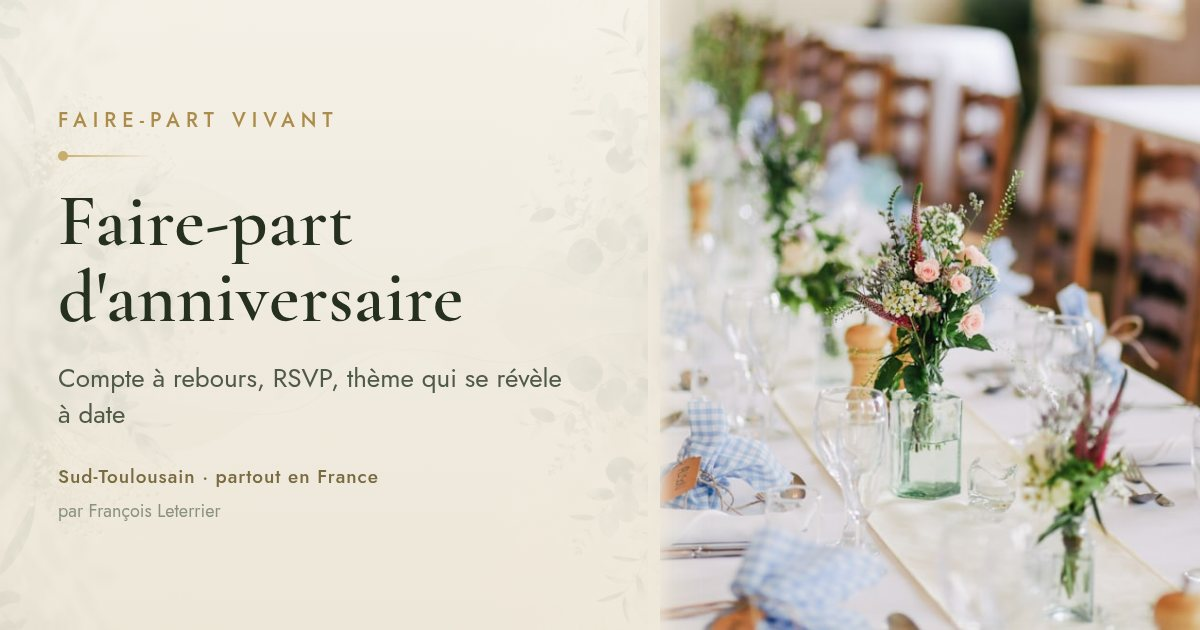
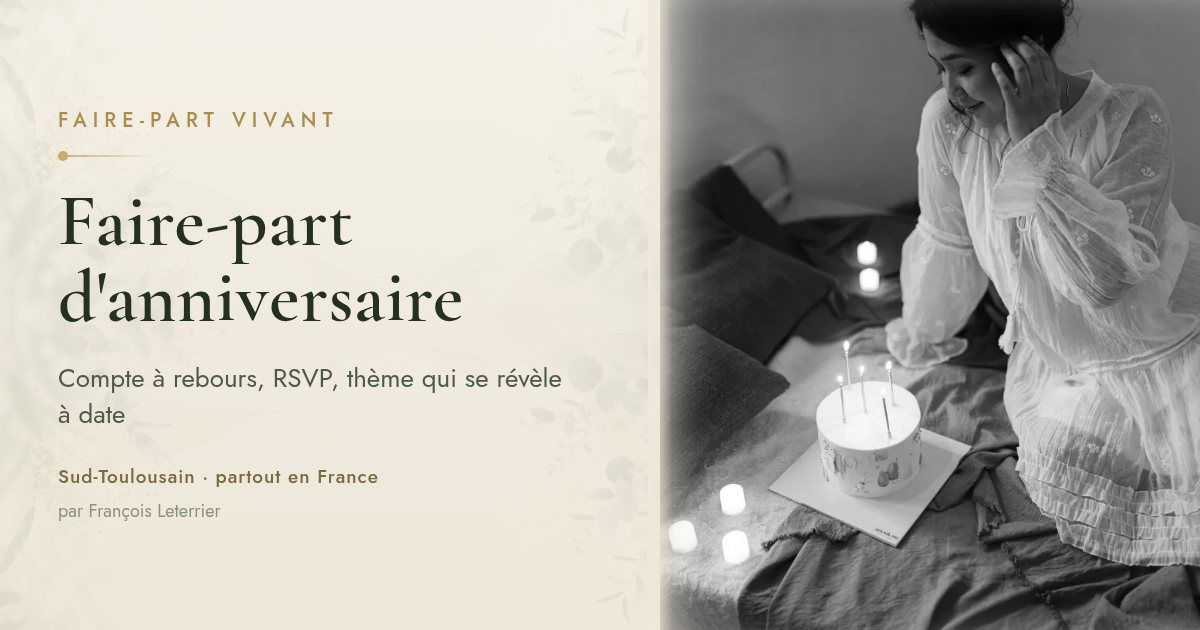
Événements : photos thématiques + un template distinct par occasion (#28)
Répond à deux demandes : chaque type d'événement a désormais sa vraie
photo et sa propre présentation (les pages ne se ressemblent plus, y
compris sur mobile).

Photos (aperçu téléphone + carte OG) :
- Anniversaire : gâteau & bougies (noir & blanc élégant).
- Fiançailles : couple et bague de fiançailles.
- Événement pro : coupes levées & confettis dorés.
Ré-encodées en WebP portrait 700×1050 (script encode-photos.mjs) ;
cartes Open Graph régénérées avec ces mêmes photos.

Template par événement (piloté par [data-evt] sur <main>, sans JS) :
- Couleur signature propre à chaque occasion — naissance (sauge),
  baptême (bleu ciel), anniversaire (ambre), fiançailles (rose poudré),
  pro (ardoise) — appliquée aux boutons, filets, frise, puces, aperçu,
  liens et lavis du héros. Prime en clair comme en sombre (surcharge sur
  <main>, pas sur :root).
- Composition inversée pour baptême & fiançailles : l'aperçu passe à
  gauche en desktop et EN PREMIER sur mobile (les autres mènent par le
  texte) → présentation réellement différente d'une page à l'autre.

Les pages locales (× ville) héritent de la couleur de leur événement.
19 blocs JSON-LD toujours valides ; vérifié en clair, sombre et mobile.

Claude-Session: https://claude.ai/code/session_017huPLVfcfBBYfuhbjmHAm9

diff --git a/src/vitrine/vitrine.css b/src/vitrine/vitrine.css
@@ -1170,3 +1170,49 @@ body { counter-reset: sect; }
 .vt-theme-toggle .moon { display: block; }
 :root[data-theme="dark"] .vt-theme-toggle .sun { display: block; }
 :root[data-theme="dark"] .vt-theme-toggle .moon { display: none; }
+
+/* ============================================================
+   Thème par événement — chaque faire-part a sa couleur signature
+   et sa mise en page. On redéfinit la famille « or » (accent) sur le
+   conteneur [data-evt] : boutons, filets, frise, puces, aperçu, liens
+   et lavis du héros s'accordent. Comme la surcharge porte sur <main>
+   (et non :root), elle prime dans le subtree en clair ET en sombre.
+   ============================================================ */
+[data-evt="naissance"] {
+  --gold: #7e9b78; --gold-2: color-mix(in srgb, #7e9b78 78%, #fff);
+  --gold-soft: color-mix(in srgb, #7e9b78 46%, #fff); --sc-accent: #7e9b78;
+}
+[data-evt="bapteme"] {
+  --gold: #6f97b6; --gold-2: color-mix(in srgb, #6f97b6 78%, #fff);
+  --gold-soft: color-mix(in srgb, #6f97b6 46%, #fff); --sc-accent: #6f97b6;
+}
+[data-evt="anniversaire"] {
+  --gold: #c07f33; --gold-2: color-mix(in srgb, #c07f33 78%, #fff);
+  --gold-soft: color-mix(in srgb, #c07f33 46%, #fff); --sc-accent: #c07f33;
+}
+[data-evt="fiancailles"] {
+  --gold: #b57680; --gold-2: color-mix(in srgb, #b57680 78%, #fff);
+  --gold-soft: color-mix(in srgb, #b57680 46%, #fff); --sc-accent: #b57680;
+}
+[data-evt="professionnel"] {
+  --gold: #56788a; --gold-2: color-mix(in srgb, #56788a 78%, #fff);
+  --gold-soft: color-mix(in srgb, #56788a 46%, #fff); --sc-accent: #56788a;
+}
+/* Lavis coloré du héros, teinté par l'accent de l'événement */
+[data-evt] .vt-evt-hero {
+  background: radial-gradient(120% 82% at 78% 10%, color-mix(in srgb, var(--gold) 15%, transparent), transparent 62%);
+}
+:root[data-theme="dark"] [data-evt] .vt-evt-hero {
+  background: radial-gradient(120% 82% at 78% 10%, color-mix(in srgb, var(--gold) 20%, transparent), transparent 64%);
+}
+/* Variante de composition : certains événements mènent par la photo
+   (aperçu à gauche en desktop, en premier sur mobile) → présentation
+   distincte d'un événement à l'autre, y compris sur mobile.
+   L'ordre s'applique à toutes tailles ; l'inversion des colonnes est
+   réservée au desktop (sinon elle casserait le passage en une colonne). */
+[data-evt="bapteme"] .vt-evt-hero-media,
+[data-evt="fiancailles"] .vt-evt-hero-media { order: -1; }
+@media (min-width: 901px) {
+  [data-evt="bapteme"] .vt-evt-hero-in,
+  [data-evt="fiancailles"] .vt-evt-hero-in { grid-template-columns: 0.95fr 1.05fr; }
+}

diff --git a/src/vitrine/eventDevice.jsx b/src/vitrine/eventDevice.jsx
@@ -1,6 +1,9 @@
 import { I, Ornement } from "./shared.jsx";
 import photoGrossesse from "../assets/naissance-grossesse.webp";
 import photoEnfant from "../assets/bapteme-enfant.webp";
+import photoAnniv from "../assets/anniversaire-fete.webp";
+import photoFiancailles from "../assets/fiancailles-couple.webp";
+import photoPro from "../assets/professionnel-soiree.webp";
 
 /* ============================================================
    Aperçu animé partagé : mockup téléphone d'un faire-part
@@ -14,6 +17,9 @@ import photoEnfant from "../assets/bapteme-enfant.webp";
 export const EVENT_PHOTOS = {
   naissance: { src: photoGrossesse, alt: "Future maman, les mains posées sur son ventre" },
   bapteme: { src: photoEnfant, alt: "Bébé en tenue de baptême" },
+  anniversaire: { src: photoAnniv, alt: "Gâteau d'anniversaire et bougies allumées, ambiance chaleureuse" },
+  fiancailles: { src: photoFiancailles, alt: "Couple de fiancés, bague de fiançailles à la main" },
+  professionnel: { src: photoPro, alt: "Coupes de champagne levées et confettis dorés lors d'une soirée" },
 };
 
 export function EventDevice({ card, photo }) {

diff --git a/src/vitrine/LocalEvenement.jsx b/src/vitrine/LocalEvenement.jsx
@@ -1,4 +1,4 @@
-import { I, useReveal, useStoredAccent, Nav, Footer, Contact, Packs, DEMO } from "./shared.jsx";
+import { I, useReveal, Nav, Footer, Contact, Packs, DEMO } from "./shared.jsx";
 import { EVENEMENTS } from "./evenements.js";
 import { LOCAL_EVENEMENTS } from "./localEvenements.js";
 import { EventDevice, EVENT_PHOTOS } from "./eventDevice.jsx";
@@ -21,7 +21,6 @@ const NAV = [
 
 export default function LocalEvenement({ localKey }) {
   useReveal();
-  useStoredAccent();
   const L = LOCAL_EVENEMENTS[localKey];
   if (!L) return null;
   const e = EVENEMENTS[L.event];
@@ -31,7 +30,8 @@ export default function LocalEvenement({ localKey }) {
   return (
     <>
       <Nav links={NAV} />
-      <main>
+      {/* data-evt : couleur signature de l'événement (naissance / baptême) */}
+      <main data-evt={L.event}>
         {/* Héros à deux colonnes : discours local + aperçu animé */}
         <section className="vt-fhero vt-evt-hero" id="top">
           <div className="vt-wrap vt-evt-hero-in">

diff --git a/src/vitrine/PageEvenement.jsx b/src/vitrine/PageEvenement.jsx
@@ -1,4 +1,4 @@
-import { I, useReveal, useStoredAccent, Nav, Footer, Contact, Packs, DEMO } from "./shared.jsx";
+import { I, useReveal, Nav, Footer, Contact, Packs, DEMO } from "./shared.jsx";
 import { EVENEMENTS } from "./evenements.js";
 import { EventDevice, EVENT_PHOTOS as PHOTOS } from "./eventDevice.jsx";
 
@@ -52,14 +52,14 @@ function Timeline({ steps }) {
 
 export default function PageEvenement({ eventKey }) {
   useReveal();
-  useStoredAccent();
   const e = EVENEMENTS[eventKey];
   if (!e) return null;
   const autres = AUTRES.filter((a) => a.key !== eventKey);
   return (
     <>
       <Nav links={NAV} />
-      <main>
+      {/* data-evt : couleur signature + mise en page propres à l'événement */}
+      <main data-evt={eventKey}>
         {/* Héros à deux colonnes : discours + aperçu animé */}
         <section className="vt-fhero vt-evt-hero" id="top">
           <div className="vt-wrap vt-evt-hero-in">
